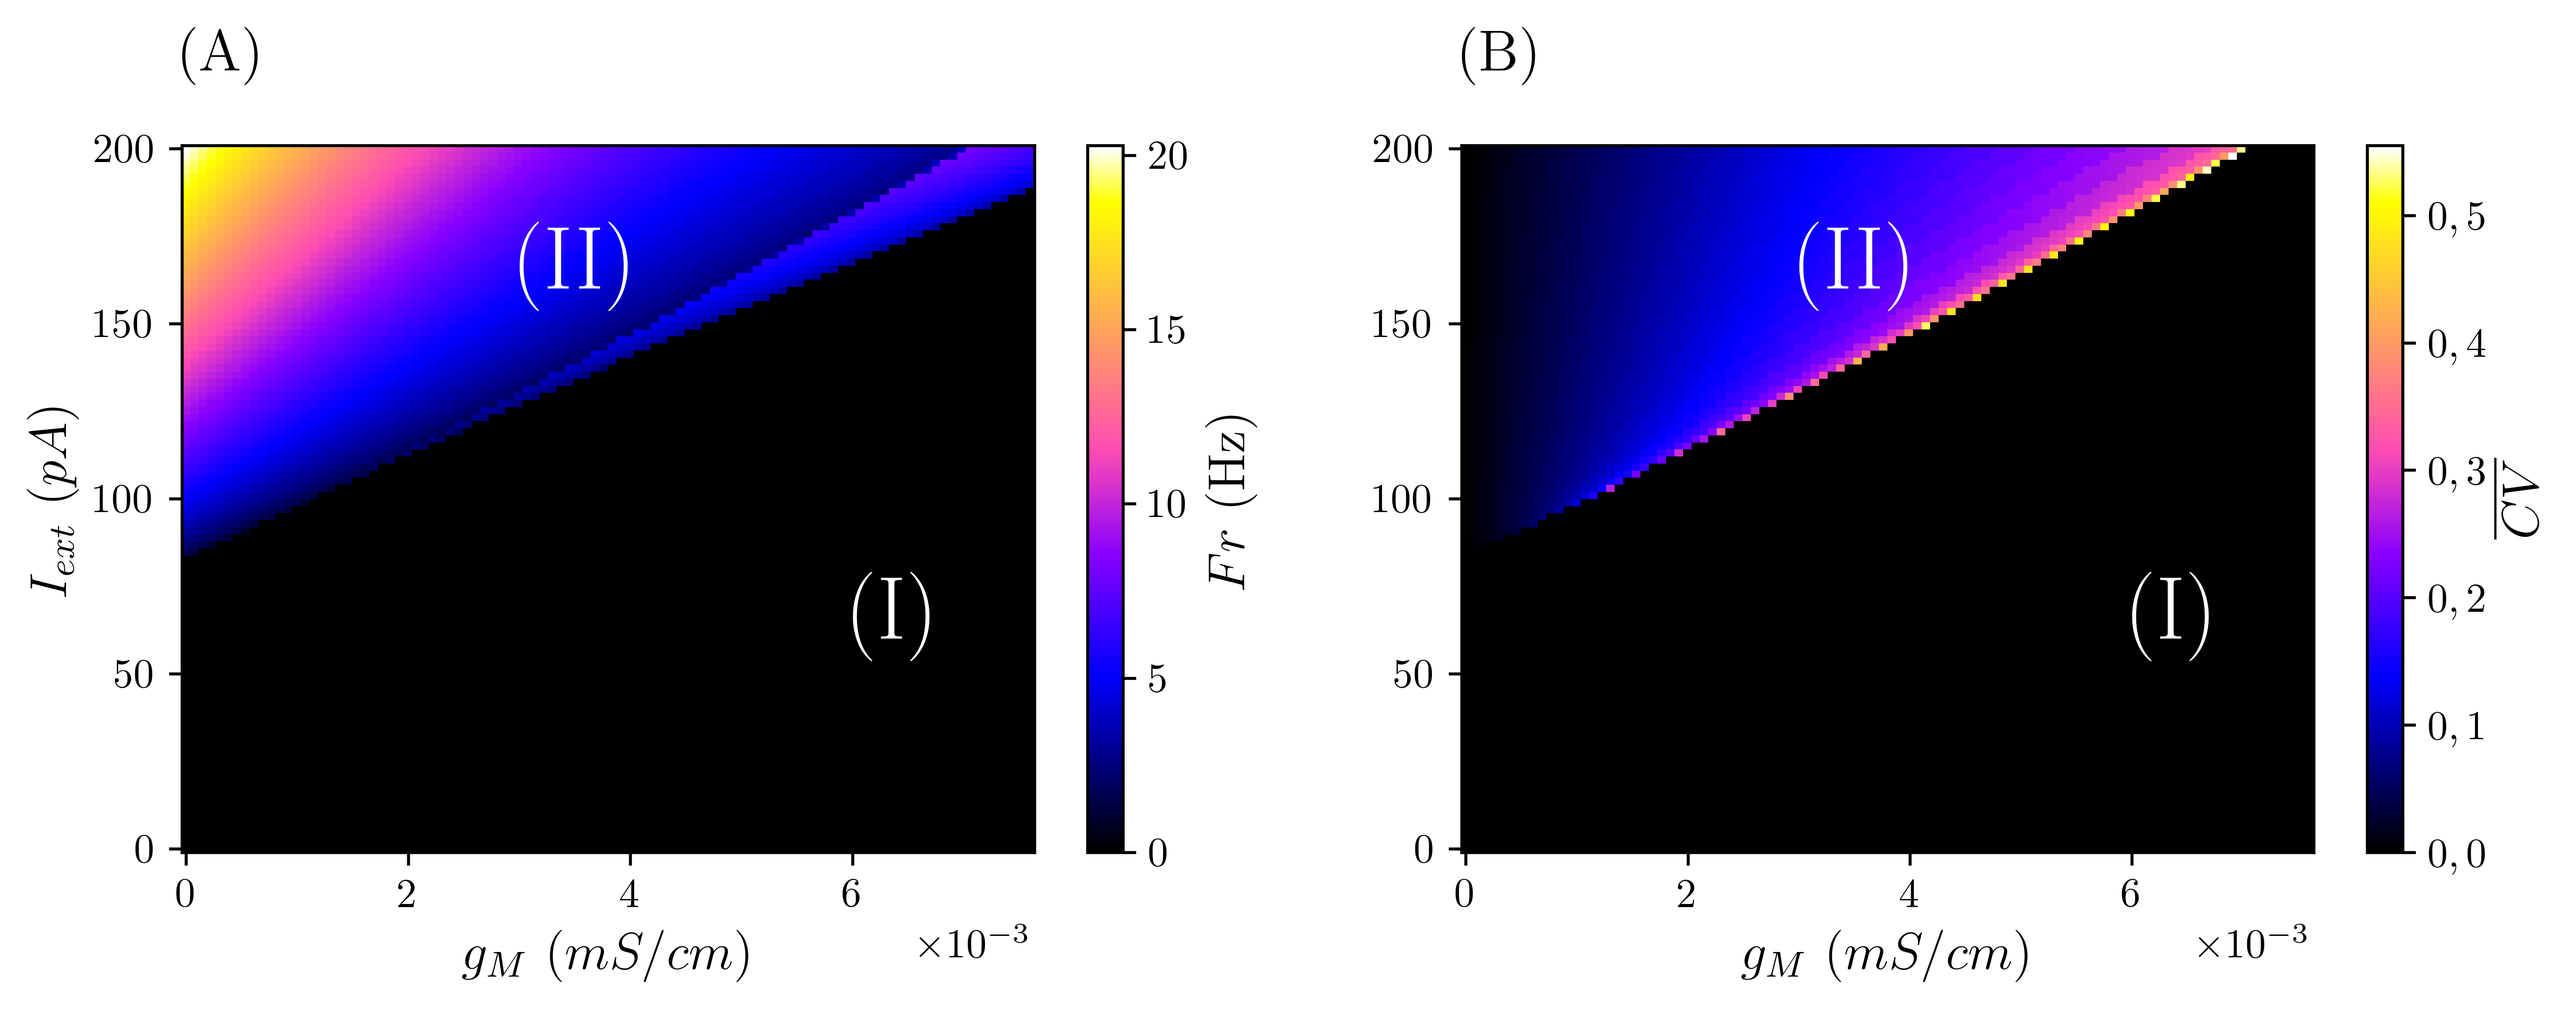
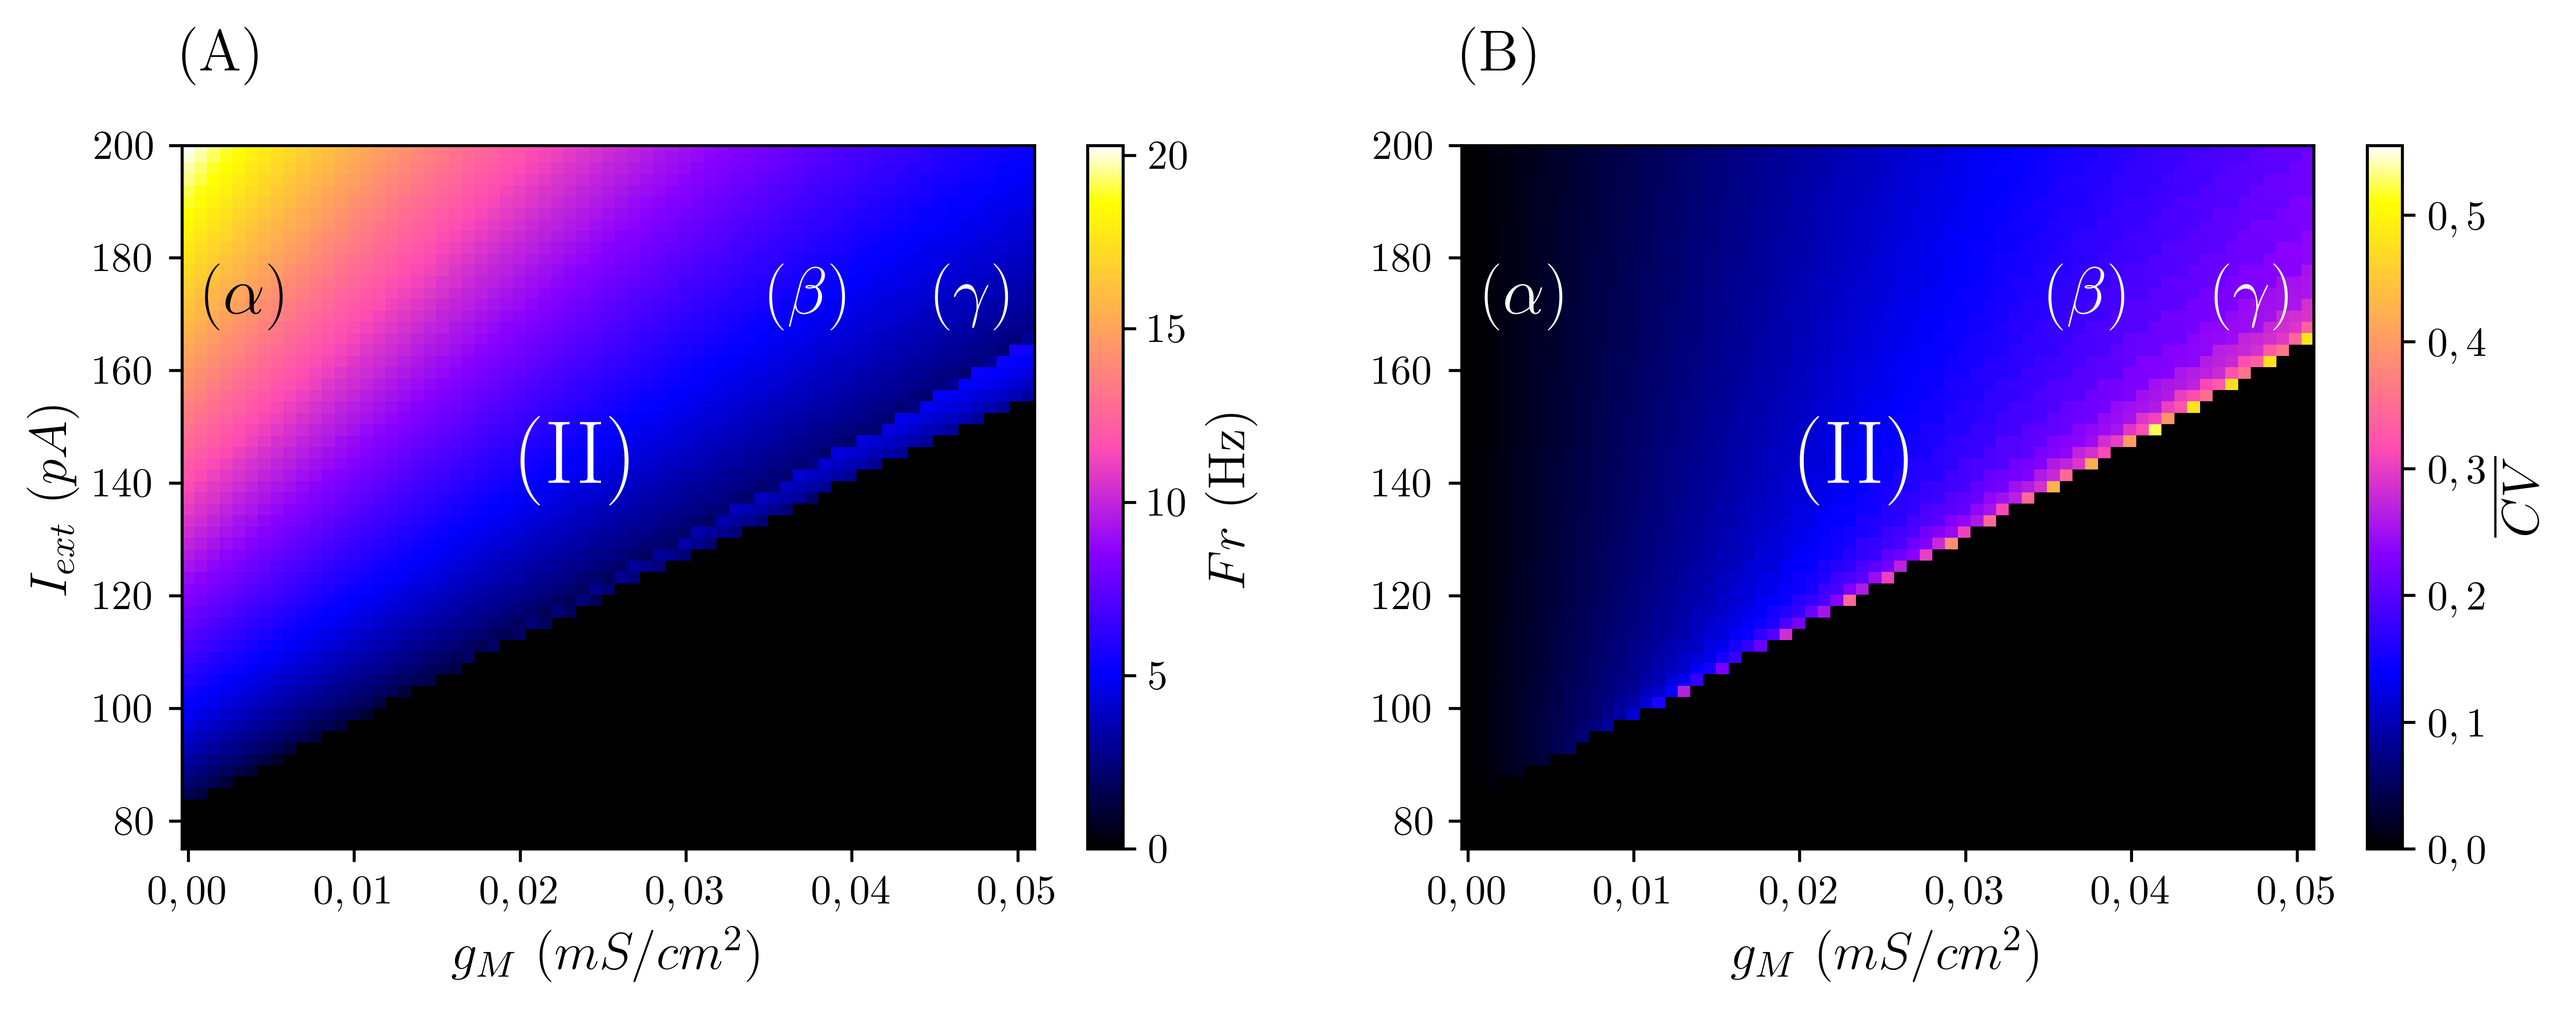
codes and figures

diff --git a/codes_and_figures/plotLOP_Potencial.py b/codes_and_figures/plotLOP_Potencial.py
@@ -1,0 +1,85 @@
+import pickle
+import sys
+import numpy as np
+from matplotlib import pyplot as plt
+import matplotlib.colors as mcolors
+import matplotlib.ticker as plticker
+from matplotlib.colors import LinearSegmentedColormap, ListedColormap
+import locale
+locale.setlocale(locale.LC_ALL, 'pt_BR.UTF-8')       
+
+from matplotlib.colors import ListedColormap,LinearSegmentedColormap
+colors = ["darkorange", "gold", "lawngreen", "lightseagreen","darkgreen"]
+cmap_LOP = ListedColormap(colors)
+
+def plot_params():
+    plt.rc('text', usetex=True)
+    plt.rc('font', size=13)
+    plt.rc('xtick', labelsize=11)
+    plt.rc('ytick', labelsize=11)
+    plt.rc('axes', labelsize=14)
+    plt.rc('legend', fontsize=8)
+    plt.rc('lines', linewidth=1.0)
+    plt.rcParams["axes.formatter.limits"] = (-3, 4)
+    plt.rcParams['axes.formatter.use_locale'] = True
+    plt.rc('font', **{'family': 'serif', 'serif': ['Computer Modern']})
+    plt.rcParams['pcolor.shading'] = 'nearest'
+plot_params()
+
+with open('../results/data_LOP_potencial.pkl','rb') as f:
+    dados_lop = pickle.load(f)
+
+t = dados_lop['t']
+t_phase = dados_lop['t_phase']
+v_soma1 = dados_lop['v_soma1']
+v_soma2 = dados_lop['v_soma2']
+v_soma3 = dados_lop['v_soma3']
+v_soma4 = dados_lop['v_soma4']
+lop = dados_lop['lop']
+
+
+
+cm = 1/2.54
+
+fig = plt.figure(figsize=(15*cm, 9*cm))
+gs = fig.add_gridspec(2, 2, height_ratios=[2, 3],width_ratios=[50,1])
+fig.set_tight_layout(20)
+
+ax0 = fig.add_subplot(gs[0, 0])
+ax0.set_title('(A)', loc='left', pad=10)
+ax0.xaxis.set_visible(False)
+ax0.set_ylabel('Voltage (mV)')
+ax0.spines['right'].set_visible(False)
+ax0.spines['top'].set_visible(False)
+ax0.spines['bottom'].set_visible(False)
+ax0.plot(t, v_soma4, color='magenta')
+ax0.plot(t, v_soma1, color='red')
+ax0.plot(t, v_soma2, color='green')
+ax0.plot(t, v_soma3, color='blue')
+ax0.set_xlim(1500, 4300)
+
+ax1 = fig.add_subplot(gs[1,0], sharex=ax0)
+n_neurons = np.arange(lop.shape[0])
+tg, ig = np.meshgrid(t_phase, n_neurons)
+hm2 = ax1.pcolormesh(tg, ig, lop, cmap='inferno', vmax=1.0, vmin=0.96)
+ax1.set_title('(B)', loc='left', pad=10)
+ax1.set_yticks([1, lop.shape[0]])
+ax1.set_yticklabels(['1', '256'])
+ax1.set_ylim(1, lop.shape[0] + 1)
+ax1.set_xlim(2000, 4300)
+ax1.set_ylabel('neurônio $n$')
+ax1.set_xlabel('Tempo (ms)')
+
+ax2 = fig.add_subplot(gs[0,1])
+ax2.spines['right'].set_visible(False)
+ax2.spines['left'].set_visible(False)
+ax2.spines['top'].set_visible(False)
+ax2.spines['bottom'].set_visible(False)
+ax2.yaxis.set_visible(False)
+ax2.xaxis.set_visible(False)
+
+ax3 = fig.add_subplot(gs[1,1])
+cbar2 = plt.colorbar(hm2, cax=ax3, ticks=[0.96, 1])
+cbar2.set_label('LOP$(t)$')
+
+plt.savefig('exemplo_lop_potencial.png', dpi=600, bbox_inches='tight', format='png')

diff --git a/codes_and_figures/matrizAdjacencia.py b/codes_and_figures/matrizAdjacencia.py
@@ -1,0 +1,82 @@
+import pickle
+import numpy as np
+from matplotlib import pyplot as plt
+import matplotlib.colors as mcolors
+import matplotlib.ticker as plticker
+from matplotlib.colors import LinearSegmentedColormap, ListedColormap
+import locale
+import latex
+locale.setlocale(locale.LC_ALL, 'pt_BR.UTF-8')       
+
+cores = list(mcolors.TABLEAU_COLORS.keys())
+cores = [cor.split(':')[-1] for cor in cores]
+
+def plot_params():
+    plt.rc('text', usetex=True)
+    plt.rc('font', size=13)
+    plt.rc('xtick', labelsize=11)
+    plt.rc('ytick', labelsize=11)
+    plt.rc('axes', labelsize=14)
+    plt.rc('legend', fontsize=8)
+    plt.rc('lines', linewidth=1.0)
+    plt.rcParams["axes.formatter.limits"] = (-3, 4)
+    plt.rcParams['axes.formatter.use_locale'] = True
+    plt.rc('font', **{'family': 'serif', 'serif': ['Computer Modern']})
+    plt.rcParams['pcolor.shading'] = 'nearest'
+plot_params()
+
+
+def get_matriz_Adjacência(n, p, numExtraConex = 0):
+    conex = np.zeros((n, n))  # acoplamento não-local
+    for i in range(n):
+        for k in range(i - p, i + p + 1):
+            j = k % n  # Utilize o operador de módulo para garantir que j permaneça dentro do intervalo correto
+            if i != j:
+                conex[i, j] = 1  # Defina 1 para representar a existência de uma aresta
+
+    # Introduzir conexões aleatórias
+    conex_smll = np.zeros_like(conex)
+    conex_smll += conex
+
+    for linha, conexoes in enumerate(conex_smll):
+        for conexExtra in range(numExtraConex):
+            idx_nova_conex = np.random.randint(0, n)  # gera índice aleatório de 0 a n
+            if idx_nova_conex == 0 or idx_nova_conex == n:
+                idx_nova_conex = idx_nova_conex % n
+
+            if conexoes[idx_nova_conex] != 1:
+                conexoes[idx_nova_conex] = 1
+
+    # Remover autoconexões
+    for i in range(n):
+        conex_smll[i, i] = 0
+
+    return conex_smll
+
+rede = 51
+p = 5
+
+nao_local = get_matriz_Adjacência(rede, p, 0)
+aleatoria = get_matriz_Adjacência(rede, 0, int(0.25*rede))
+small_world = get_matriz_Adjacência(rede, 5, int(0.25*rede))
+
+cm = 1/2.54
+
+fig, ax = plt.subplots(ncols=3, figsize=(20*cm, 8*cm))
+fig.set_tight_layout(20)
+
+ax[0].set_title('(A)', pad=20, loc='left')
+ax[0].matshow(nao_local, cmap='binary')
+
+ax[1].set_title('(B)', pad=20, loc='left')
+ax[1].matshow(aleatoria, cmap='binary')
+
+ax[2].set_title('(C)', pad=20, loc='left')
+ax[2].matshow(small_world, cmap='binary')
+
+for axis in ax:
+    axis.xaxis.tick_bottom()
+    axis.set_xlabel('$j$')
+ax[0].set_ylabel('$n$', rotation=0, labelpad=20)
+
+plt.savefig('matrizAdjacencia.png',  dpi=600, bbox_inches='tight', format='png')

diff --git a/codes_and_figures/gm_iext_frequencia_yamada.py b/codes_and_figures/gm_iext_frequencia_yamada.py
@@ -39,7 +39,7 @@ fig, ax = plt.subplots(ncols=2, nrows=1, figsize=(25*cm, 10*cm))
 fig.set_tight_layout(20)
 
 
-tg, ig = np.meshgrid(i_exts*1000, gms*100)
+tg, ig = np.meshgrid(i_exts*1000, gms*1e3)
 
 hm00 = ax[0].pcolor(ig, tg, frequencias, cmap='gnuplot2')
 cbar00 = fig.colorbar(hm00, ax=ax[0])#, cax=cax1, format=formater)
@@ -52,17 +52,35 @@ cbar01.set_label(r'$\overline{CV}$')
 ax[0].set_title('(A)', loc='left', pad=20)
 ax[1].set_title('(B)', loc='left', pad=20)
 
-ax[0].set_xlabel('$g_{M}$ ($mS/cm²$)')
-ax[1].set_xlabel('$g_{M}$ ($mS/cm²$)')
+ax[0].set_xlabel('$g_{M}$ ($mS/cm^2$)')
+ax[1].set_xlabel('$g_{M}$ ($mS/cm^2$)')
 
 ax[0].set_ylabel('$I_{ext}$ ($pA$)')
 
 
-ax[0].annotate('(I)', xy=(6e-3,60),  color='white', fontsize=24)
-ax[0].annotate('(II)', xy=(3e-3,160), color='white', fontsize=24)  
+#região (I)
+ax[0].annotate('(I)', xy=(6e-2,120),  color='white', fontsize=24)
+# ax[1].annotate('(I)', xy=(6e-2,120),  color='white', fontsize=24)
 
-ax[1].annotate('(I)', xy=(6e-3,60),  color='white', fontsize=24)
-ax[1].annotate('(II)', xy=(3e-3,160), color='white', fontsize=24)  
+#região (II)
+ax[0].annotate('(II)', xy=(2e-2,140), color='white', fontsize=24)  
+ax[1].annotate('(II)', xy=(2e-2,140), color='white', fontsize=24)  
+
+ax[0].annotate(r'($\alpha$)', xy=(0.1e-2,170), color='black', fontsize=18)
+ax[1].annotate(r'($\alpha$)', xy=(0.1e-2,170), color='white', fontsize=18)  
+
+ax[0].annotate(r'($\beta$)', xy=(3.5e-2,170), color='white', fontsize=18)
+ax[1].annotate(r'($\beta$)', xy=(3.5e-2,170), color='white', fontsize=18)  
+
+ax[0].annotate(r'($\gamma$)', xy=(4.5e-2,170), color='white', fontsize=18)
+ax[1].annotate(r'($\gamma$)', xy=(4.5e-2,170), color='white', fontsize=18)  
+
+# (0.1e-2,170), (4.2e-2,170), (5.6e-2,170)
+# gms*1e3 *e-2
+
+for axis in ax:
+    axis.set_ylim(75,200)
+    axis.set_xlim(None, 5.1e-2)
 
 
 plt.savefig('gm_iext_frequencia_yamada.png', dpi=600, bbox_inches='tight', format='png')

diff --git a/codes_and_figures/freq_gm_yamada.py b/codes_and_figures/freq_gm_yamada.py
@@ -33,19 +33,21 @@ gms = dados['gms']
 freqs_yamada_hz = dados['freqs_yamada_hz']
 
 cm = 1/2.54
-fig, ax = plt.subplots(figsize=(10*cm,5*cm))
+fig, ax = plt.subplots(figsize=(10*cm,8*cm))
 ax.grid(alpha=0.3)
-ax.scatter(x = gms, y = freqs_yamada_hz, alpha=0.1, s=2)
-ax.scatter(x = gms[300], y = freqs_yamada_hz[300], color = 'green', label='$g_{m}$ fixo neste trabalho', s=5)
-ax.scatter(x = gms[0], y = freqs_yamada_hz[0], color = 'red', label='Modelo Hodgkin-Huxley em $I_M$', s=5 )
+ax.scatter(x = gms*1e5, y = freqs_yamada_hz, alpha=0.1, s=2)
+ax.scatter(x = gms[350]*1e5, y = freqs_yamada_hz[350], color = 'green', label='$g_{m}$ fixo neste trabalho', s=5)
+ax.scatter(x = gms[0]*1e5, y = freqs_yamada_hz[0], color = 'red', label='Modelo Hodgkin-Huxley sem $I_M$', s=5 )
 ax.set_ylabel('Frequência (Hz)')
-ax.set_xlabel('$g_{m}$ ($\mu$ S/mm²)')
+ax.set_xlabel('$g_{m}$ ($m$ S/mm²)')
+ax.set_xticklabels(["", "0", "0,01", "0,02", "0,03", "0,04", "0,05"])
 
 ax.spines['right'].set_visible(False, )
 ax.spines['top'].set_visible(False)
-ax.set_xlim(-0.05e-5,0.5*10e-5)
+# ax.set_xlim(-0.05e-5,0.5*10e-5)
+ax.set_xlim(-0.05, 5.5)
 ax.legend()
 
-ax.set_title('(A)', fontsize=20, pad=20, loc='left')
+ax.set_title('(E)', fontsize=20, pad=20, loc='left')
 
 plt.savefig('gm_freq_YamadaHH.png', dpi=600, bbox_inches='tight', format='png')
